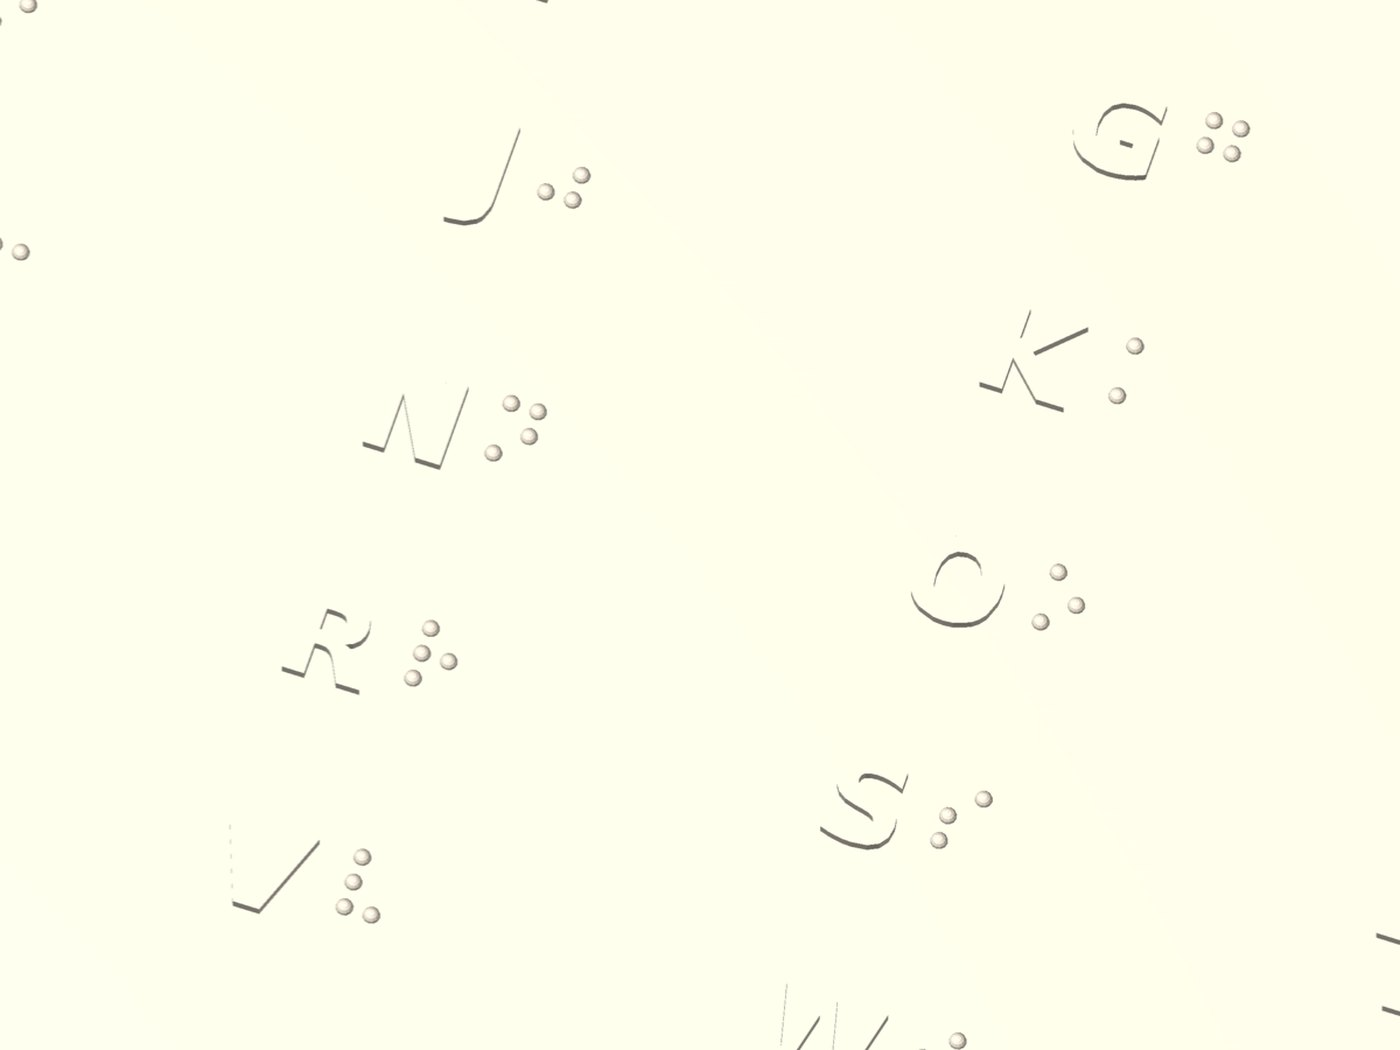
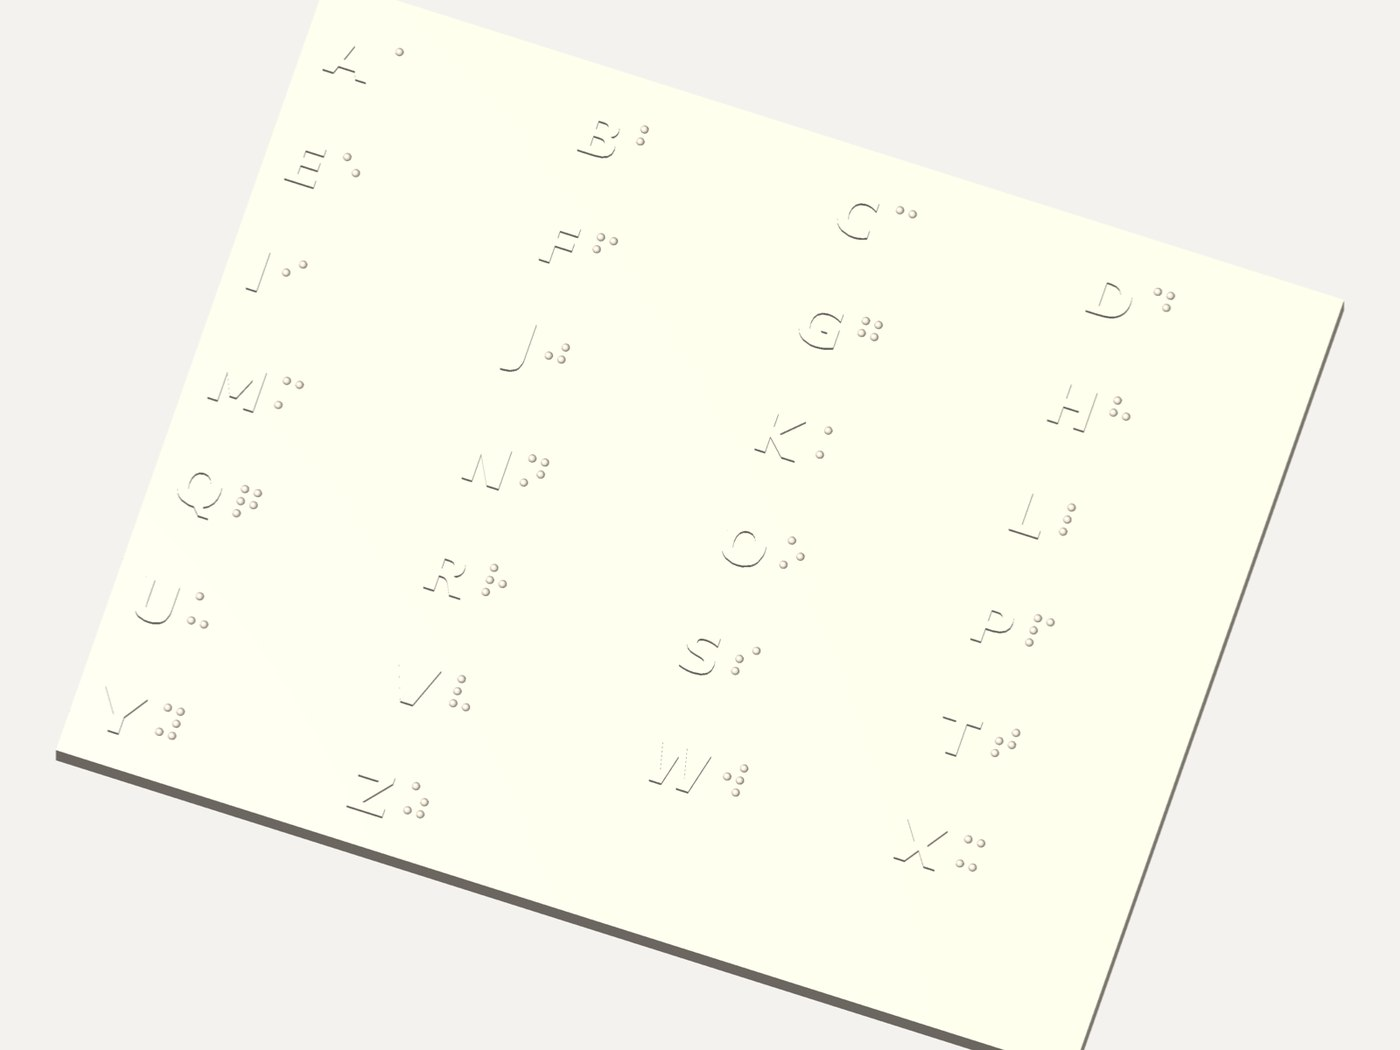
Drop the empty video slot until the film exists

diff --git a/site/index.html b/site/index.html
@@ -247,9 +247,9 @@
           <figcaption>Four terrain steps, each exactly five printed layers tall, between two ribbed seas.</figcaption>
         </figure>
         <figure>
-          <img src="/assets/render_joint.jpg" width="1400" height="1050" loading="lazy"
-               alt="Render of two map tiles seen from underneath, showing the flared dovetail tab on one tile and the matching slot cut into the edge of the other.">
-          <figcaption>The joint, seen from underneath: lower one tile onto the next and it cannot slide apart.</figcaption>
+          <img src="/assets/render_alphabet.jpg" width="1400" height="1050" loading="lazy"
+               alt="Render of the braille alphabet card: A to Z laid out in columns, each raised print letter followed by the same letter as a braille cell of domed dots.">
+          <figcaption>The alphabet card carries every letter twice, in print and in braille, so a sighted teacher and a blind reader can work from the same card.</figcaption>
         </figure>
         <figure>
           <img src="/assets/render_legend.jpg" width="1400" height="1050" loading="lazy"
@@ -258,15 +258,10 @@
         </figure>
       </div>
 
-      <div class="video-slot">
-        <!-- VIDEO SLOT: replace this whole block with the <video> element once the film is
-             shot. Keep the captions track and print the transcript beside the player. -->
-        <p><strong>A short film of the map being read has not been shot yet.</strong></p>
-        <p>
-          When it is, it goes here with captions and the full transcript printed next to the
-          player. Part of this audience cannot see the picture and part cannot hear the sound.
-        </p>
-      </div>
+      <!-- VIDEO SLOT: once the film is shot, restore the block here as a <video> element with
+           a captions track and the full transcript printed beside the player. Part of this
+           audience cannot see the picture and part cannot hear the sound. Styling for it is
+           kept in style.css under .video-slot. -->
     </div>
   </section>
 

diff --git a/site/sr/index.html b/site/sr/index.html
@@ -257,15 +257,9 @@
         </figure>
       </div>
 
-      <div class="video-slot">
-        <!-- VIDEO SLOT: zameniti ceo blok elementom <video> kada film bude snimljen.
-             Zadržati titlove i odštampati transkripciju pored plejera. -->
-        <p><strong>Kratak film o čitanju karte još nije snimljen.</strong></p>
-        <p>
-          Kada bude, staje ovde, sa titlovima i punom tekstualnom transkripcijom pored plejera.
-          Deo ove publike ne vidi sliku, a deo ne čuje zvuk.
-        </p>
-      </div>
+      <!-- VIDEO SLOT: kada film bude snimljen, vratiti blok ovde kao <video> element, sa
+           titlovima i punom tekstualnom transkripcijom pored plejera. Deo ove publike ne vidi
+           sliku, a deo ne čuje zvuk. Stil je sačuvan u style.css pod .video-slot. -->
     </div>
   </section>
 
